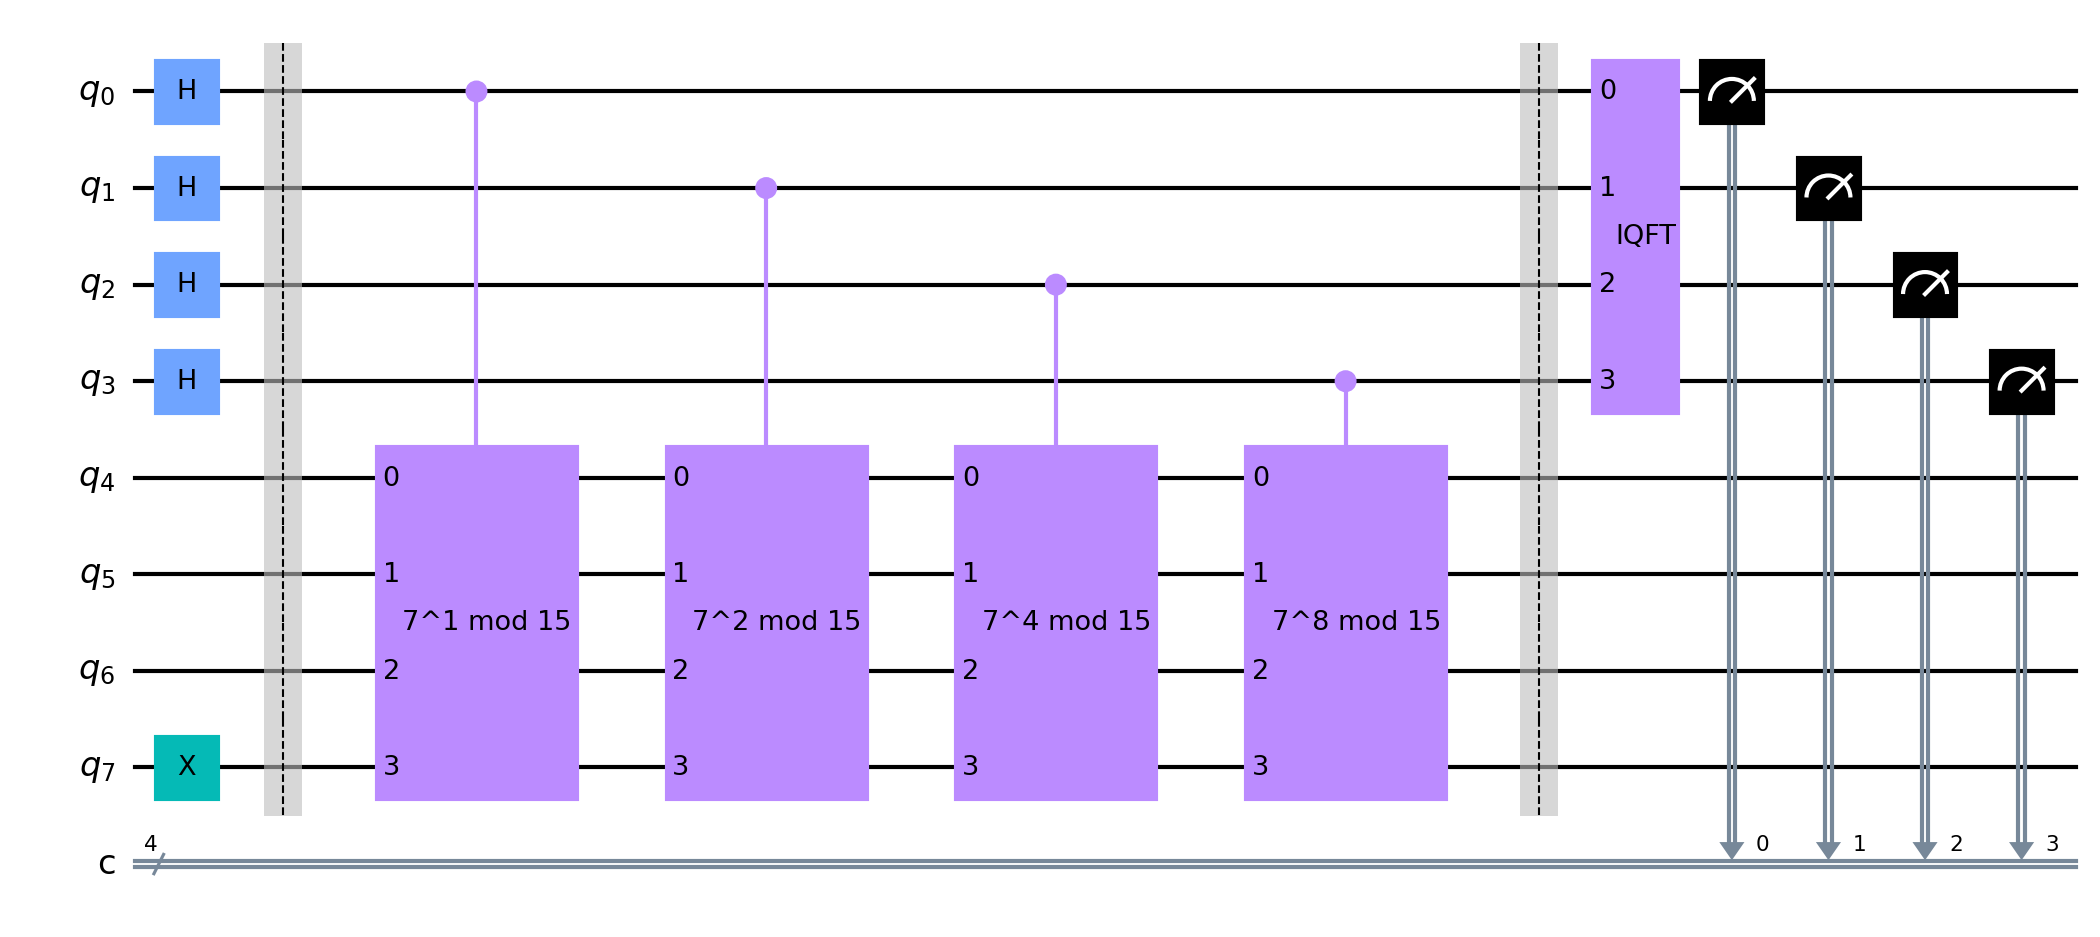
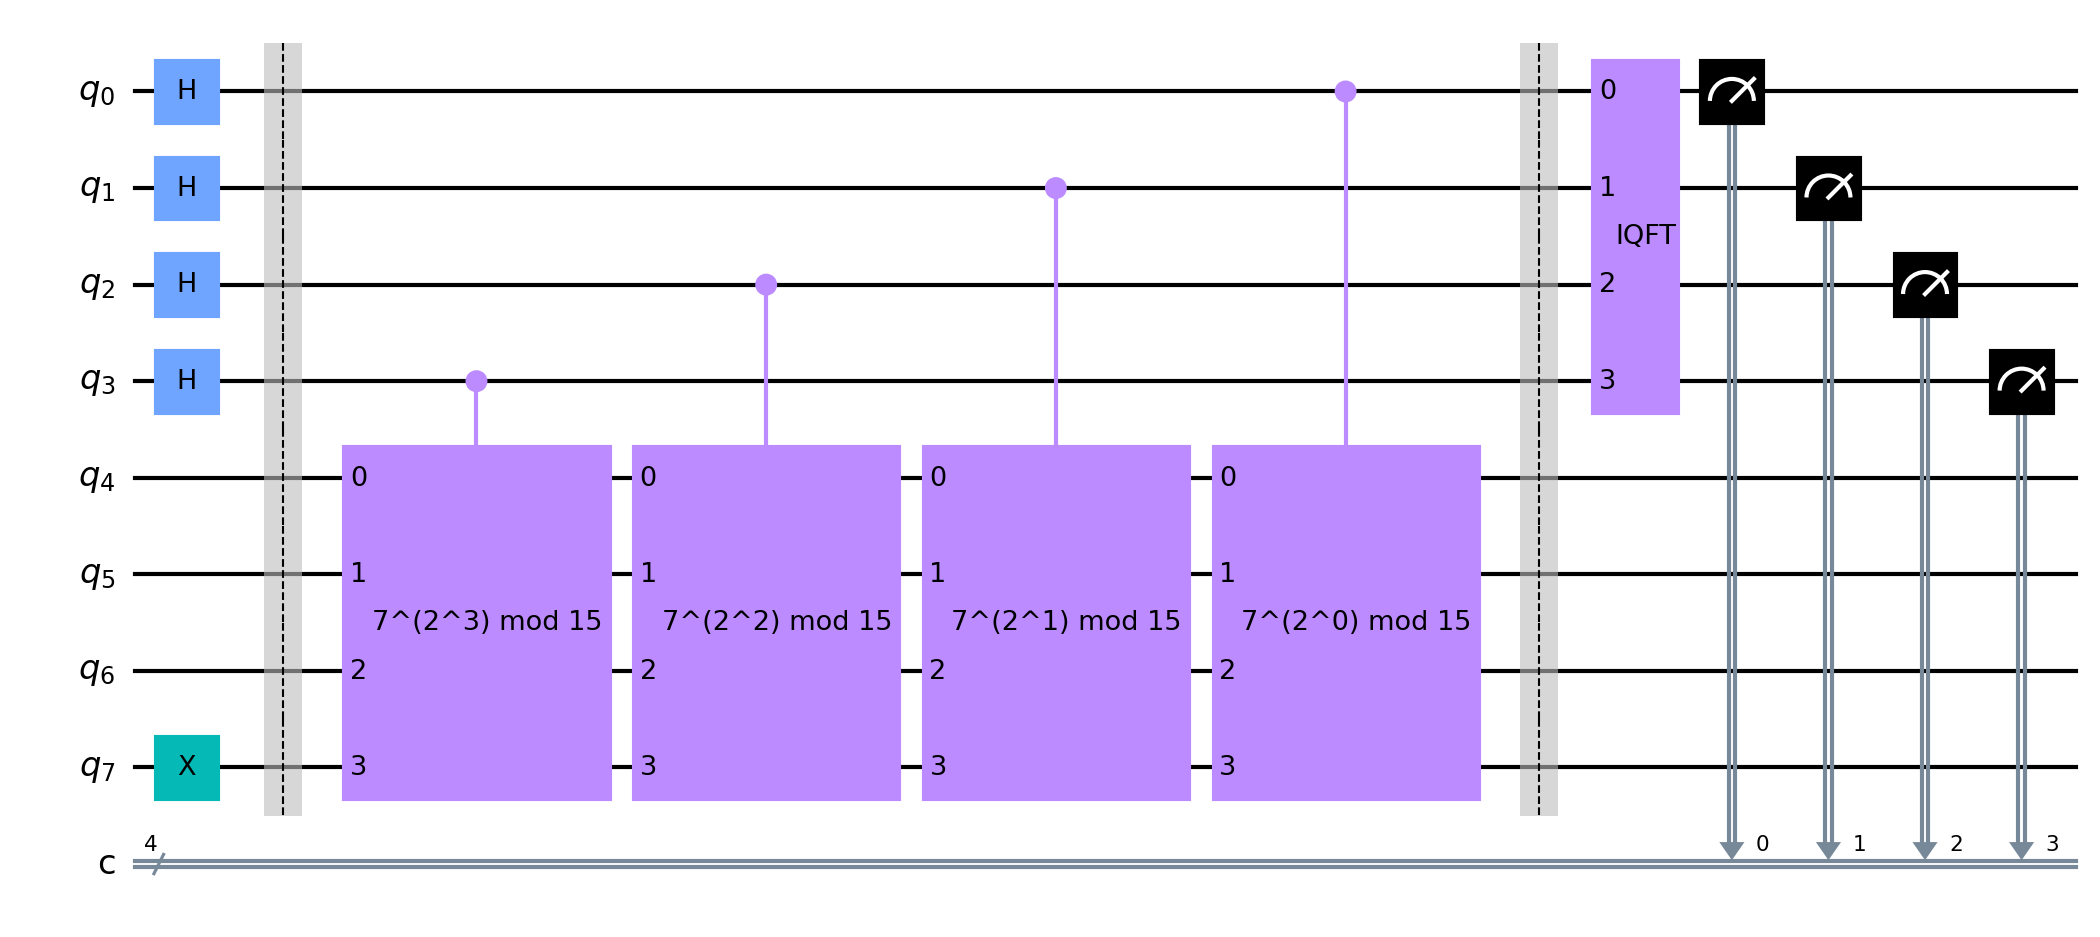
minor adjustments

diff --git a/shor_visualization.py b/shor_visualization.py
@@ -8,7 +8,7 @@ search = 15
 
 def c_amod15(base: int, itt_count: int) -> ControlledGate:
     U = QuantumCircuit(4)
-    for _ in range(itt_count):
+    for _ in range(2 ** itt_count):
         for swap in [(2, 3), (1, 2), (0, 1)]:
             U.swap(*swap)
 
@@ -16,7 +16,7 @@ def c_amod15(base: int, itt_count: int) -> ControlledGate:
             U.x(q)
 
     U = U.to_gate()
-    U.name = f'{base}^{itt_count} mod 15'
+    U.name = f'{base}^(2^{itt_count}) mod 15'
     return U.control()
 
 def shors_algorithm(n, m, a):
@@ -27,9 +27,8 @@ def shors_algorithm(n, m, a):
 
     qc.barrier()
 
-    for x in n_range:
-        exponent = 2 ** x
-        qc.append(c_amod15(a, exponent), [x, *list(range(n, n + m))])
+    for itt in n_range[::-1]:
+        qc.append(c_amod15(a, itt), [itt, *list(range(n, n + m))])
 
     qc.barrier()
 
